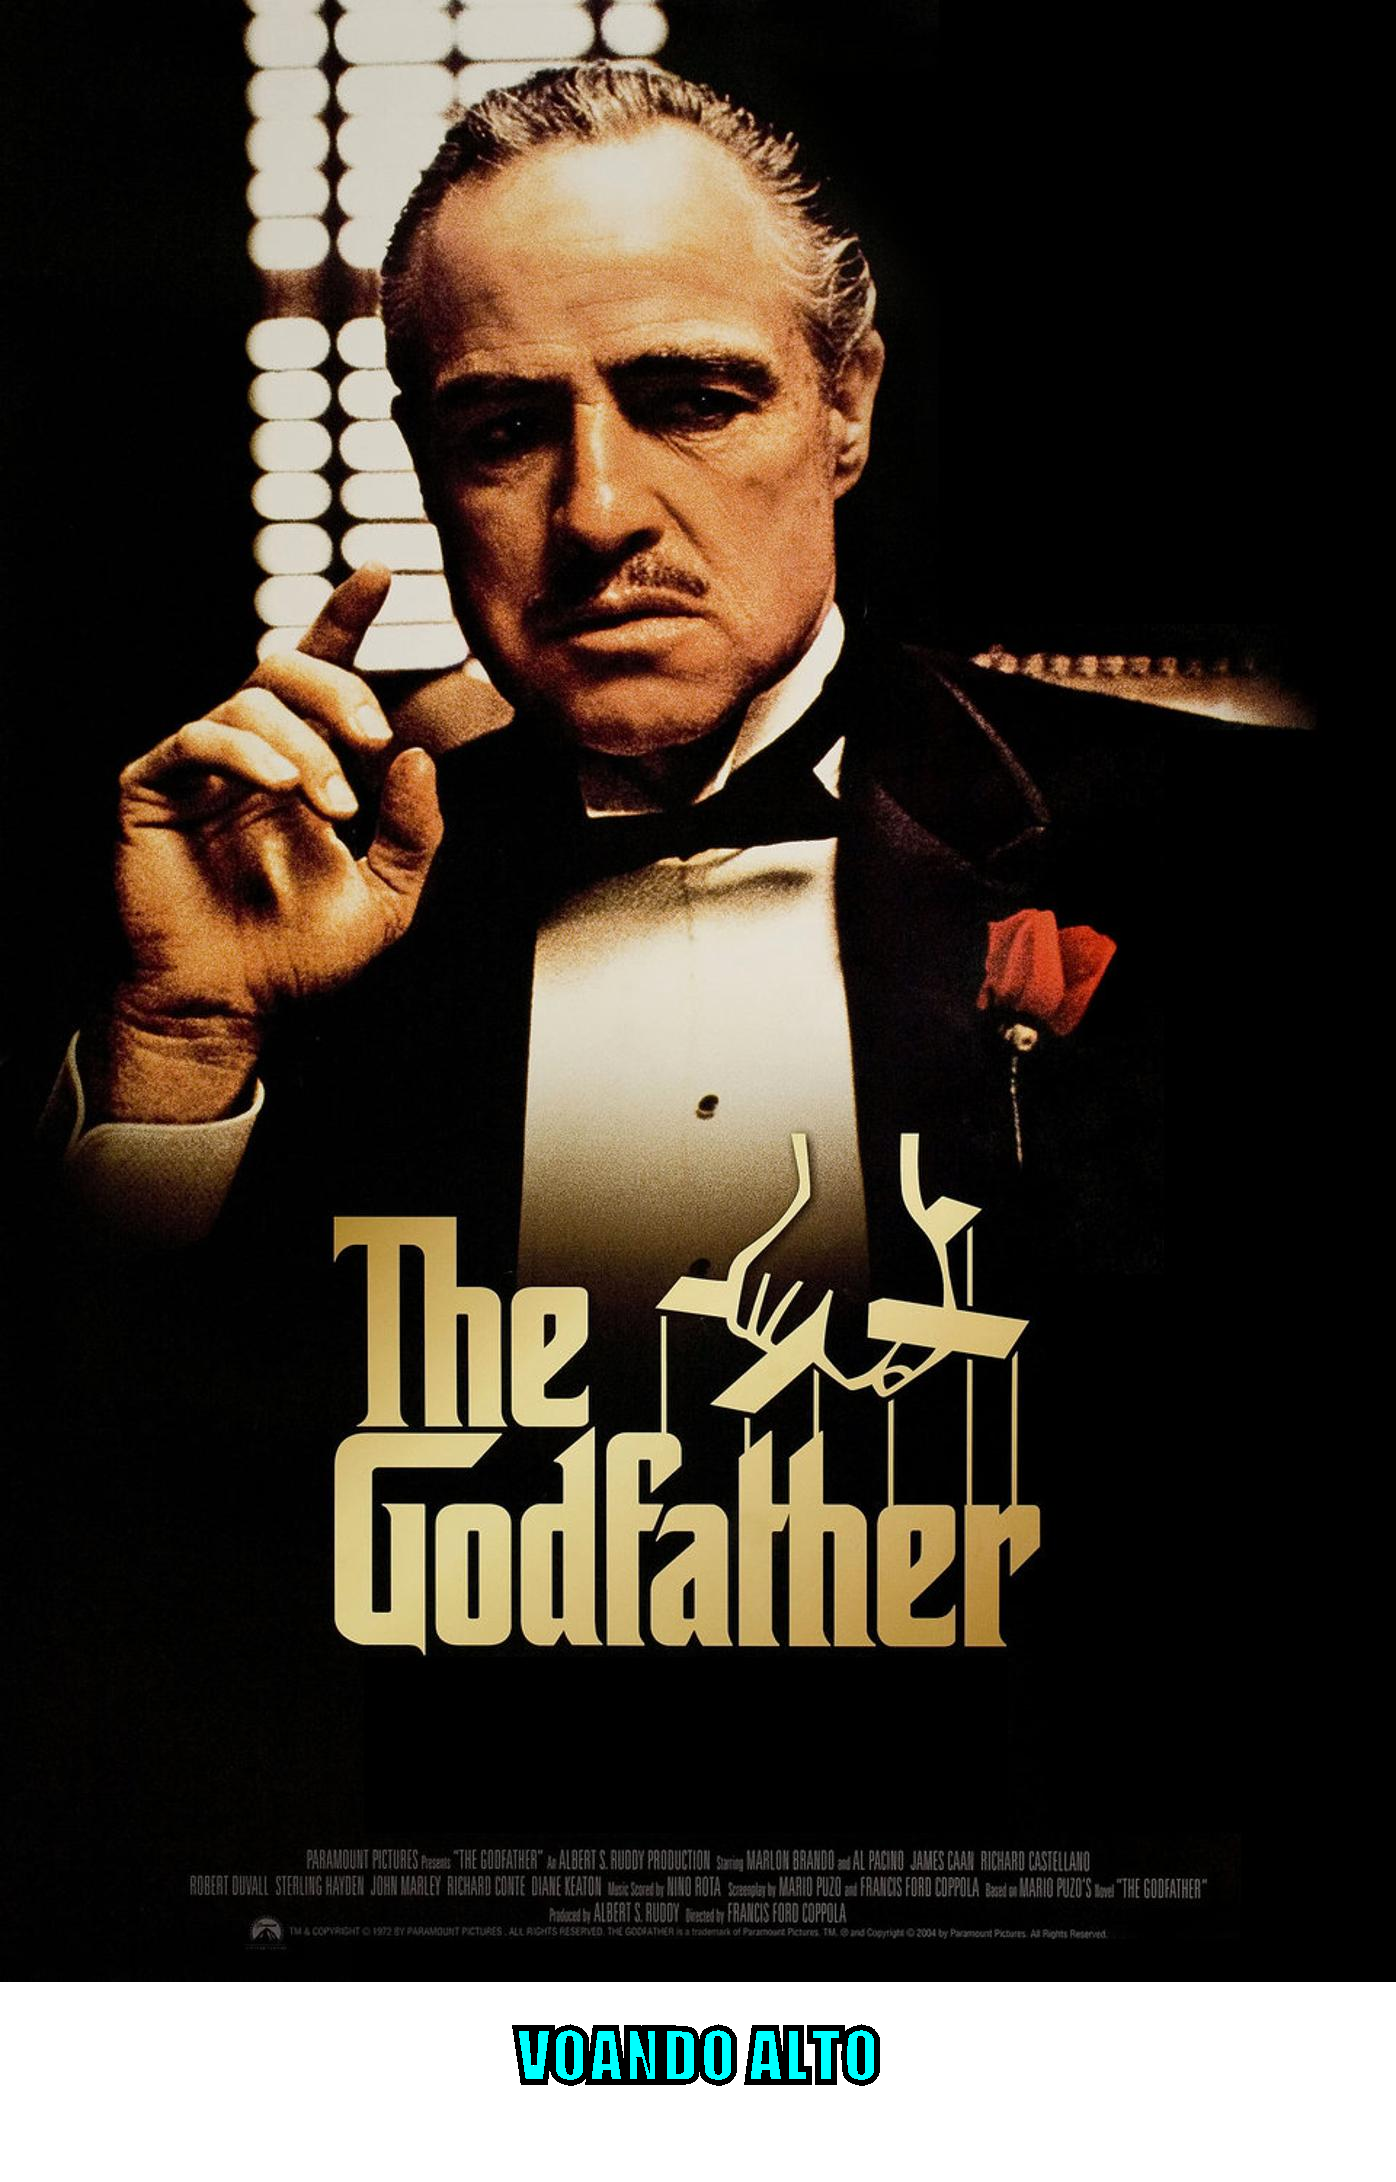
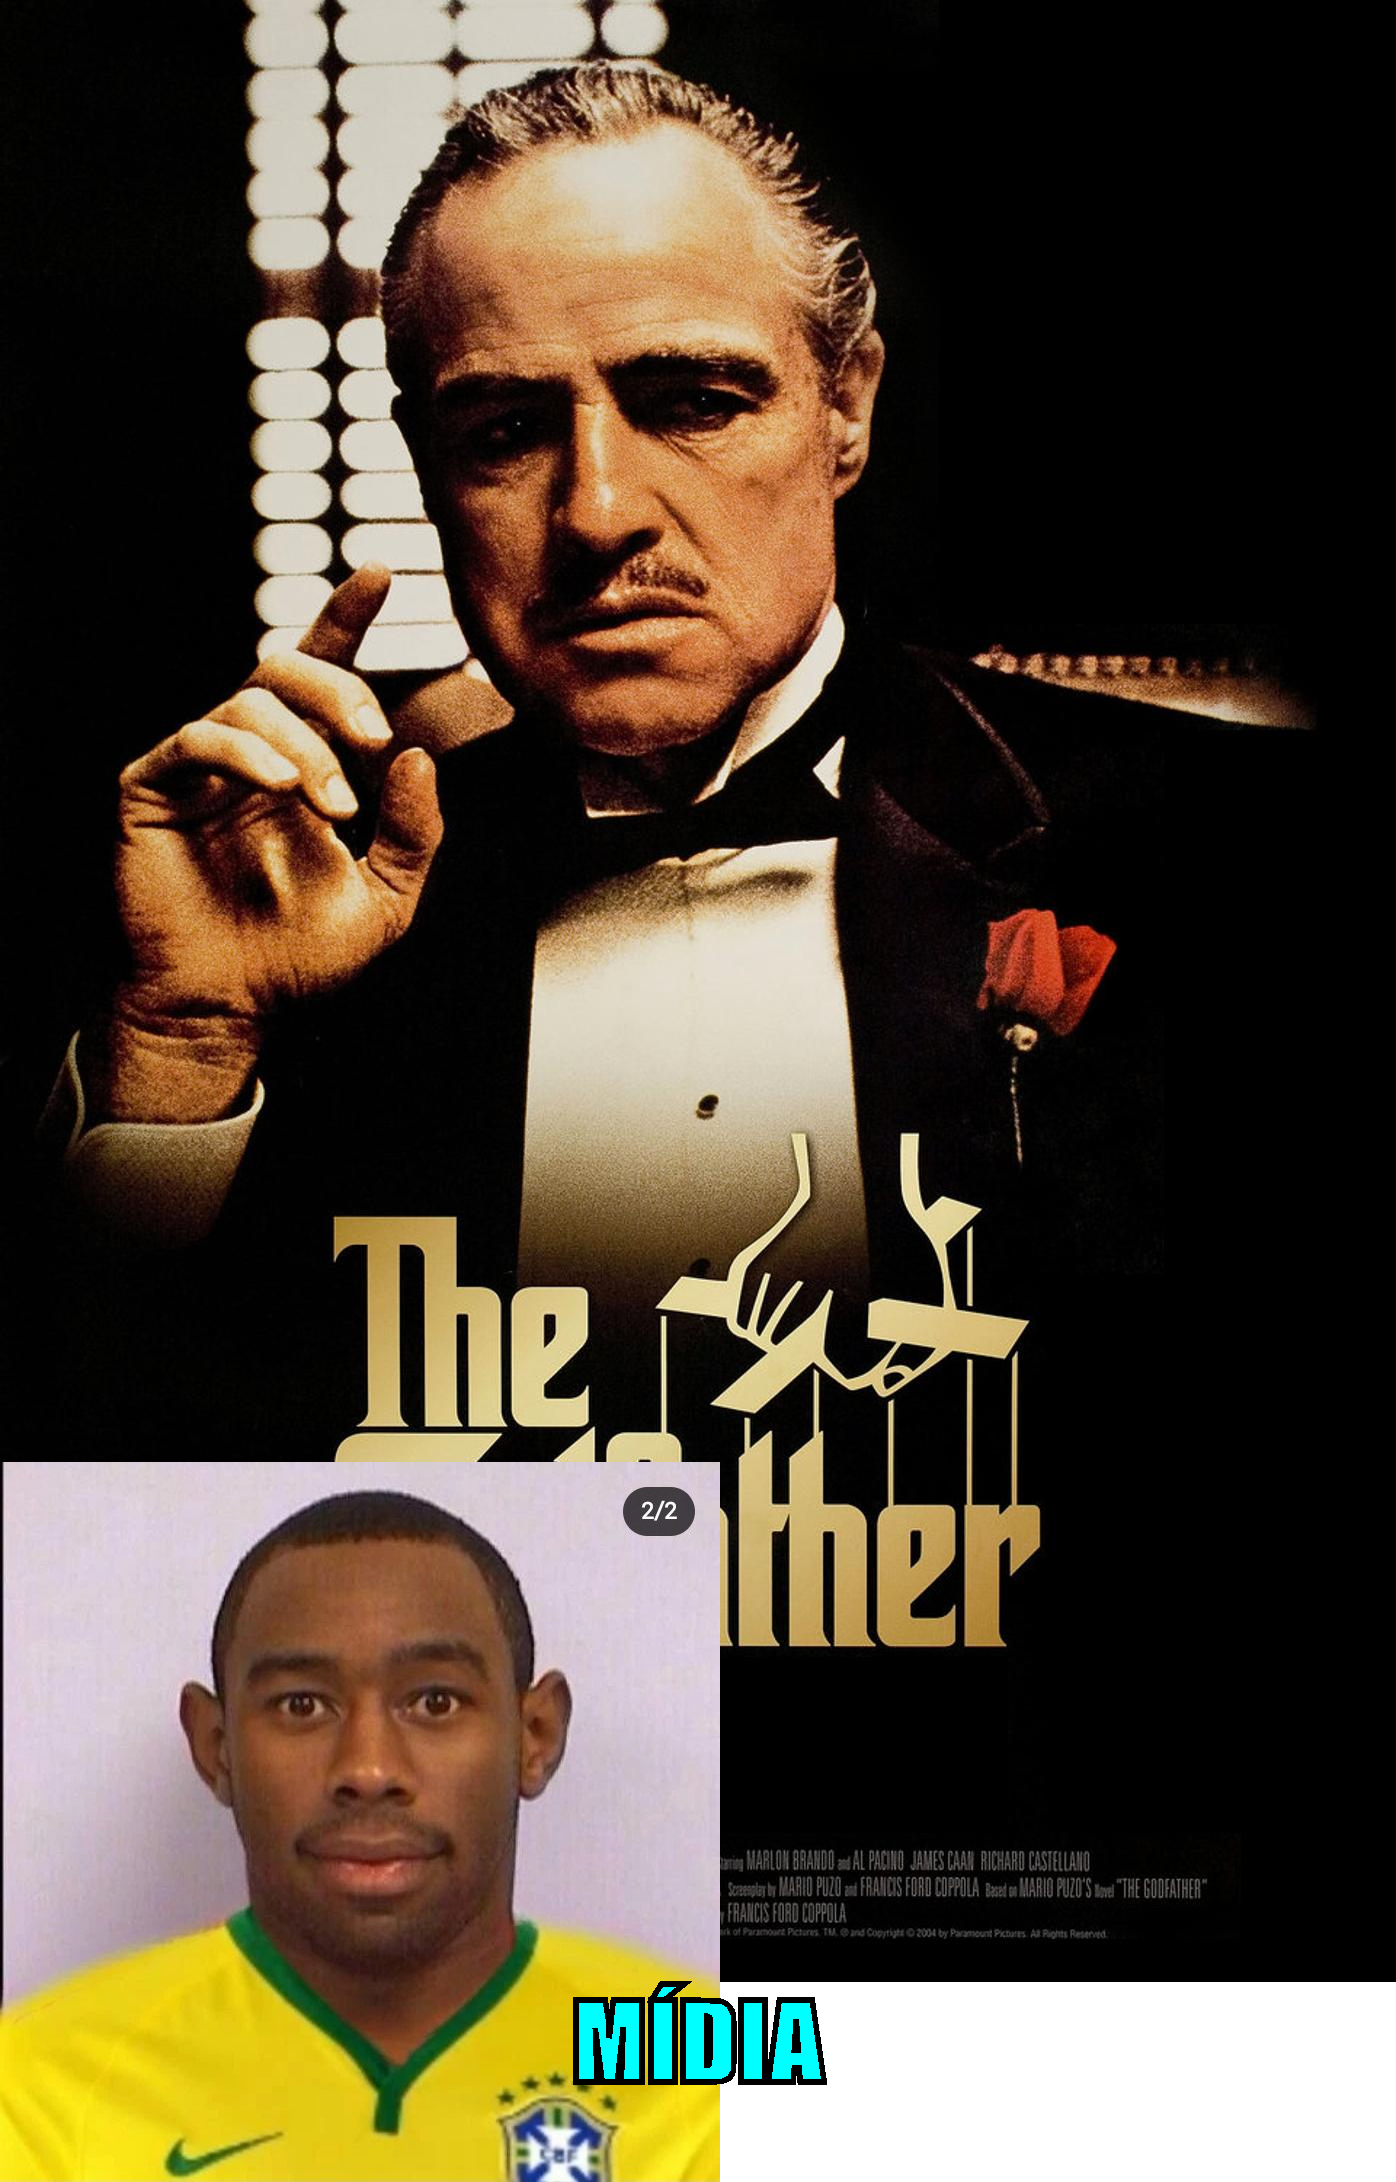
Colocar texto e sobrepor imagem de acordo com a classificacao do filme

Changed region(s): [[0.0, 0.6544, 0.6468, 1.0]]

diff --git a/src/App.java b/src/App.java
@@ -1,4 +1,5 @@
 import java.io.File;
+import java.io.FileInputStream;
 import java.io.InputStream;
 import java.net.URI;
 import java.net.URL;
@@ -14,6 +15,7 @@ public class App {
         // fazer uma conexão HTTP e buscar os 250 melhores filmes
 
         String url = "https://raw.githubusercontent.com/alura-cursos/imersao-java-2-api/main/TopMovies.json";
+        // String url = "https://raw.githubusercontent.com/alura-cursos/imersao-java-2-api/main/MostPopularMovies.json";
         URI endereco = URI.create(url);
         HttpClient client = HttpClient.newHttpClient();
         HttpRequest request = HttpRequest.newBuilder(endereco).GET().build();
@@ -37,14 +39,25 @@ public class App {
         	
         	String urlImagem = filme.get("image");
         	String titulo = filme.get("title");
+        	double classificacao = Double.parseDouble(filme.get("imDbRating"));
         	
+        	String textoFigurinha;
+        	InputStream imagemSobreposicao;
+        	if(classificacao >= 8.0) {
+        		textoFigurinha = "MÍDIA";
+        		imagemSobreposicao = new FileInputStream(new File("sobreposicao/positivo.jpg"));
+        	}
+        	else {
+        		textoFigurinha = "CANSADO";
+        		imagemSobreposicao = new FileInputStream(new File("sobreposicao/negativo.jpg"));
+        	}
         	
         	
         	InputStream inputStream = new URL(urlImagem).openStream();
         	String nomeArquivo = "figurinhas/" + titulo + ".png";
         	
         	
-        	geradora.cria(inputStream, nomeArquivo);
+        	geradora.cria(inputStream, nomeArquivo, textoFigurinha, imagemSobreposicao);
         	
             System.out.println(titulo);
             

diff --git a/src/StickerGenerator.java b/src/StickerGenerator.java
@@ -15,7 +15,7 @@ import javax.imageio.ImageIO;
 
 public class StickerGenerator {
 	
-	public void cria(InputStream inputStream, String nomeArquivo) throws Exception {
+	public void cria(InputStream inputStream, String nomeArquivo, String texto, InputStream inputStreamSobreposicao) throws Exception {
 		
 		// leitura da imagem
 		// InputStream inputStream = new FileInputStream(new File("entrada/filme.jpg"));
@@ -33,13 +33,17 @@ public class StickerGenerator {
 		Graphics2D graphics = (Graphics2D) novaImagem.getGraphics();
 		graphics.drawImage(imagemOriginal, 0, 0, null);
 		
+		BufferedImage imagemSobreposicao = ImageIO.read(inputStreamSobreposicao);
+		int posicaoImagemSobreposicaoY = novaAltura - imagemSobreposicao.getHeight();
+		graphics.drawImage(imagemSobreposicao, 0, posicaoImagemSobreposicaoY, null);
+		
 		// configurar a fonte
-		var fonte = new Font("Impact", Font.BOLD, 65);
+		var fonte = new Font("Impact", Font.BOLD, 100);
 		graphics.setColor(Color.CYAN);
 		graphics.setFont(fonte);
 		
 		// escrever uma frase na nova imagem
-		String texto = "VOANDO ALTO";
+		
 		FontMetrics fontMetrics = graphics.getFontMetrics();
 		Rectangle2D retangulo = fontMetrics.getStringBounds(texto, graphics);
 		int larguraTexto = (int) retangulo.getWidth();
